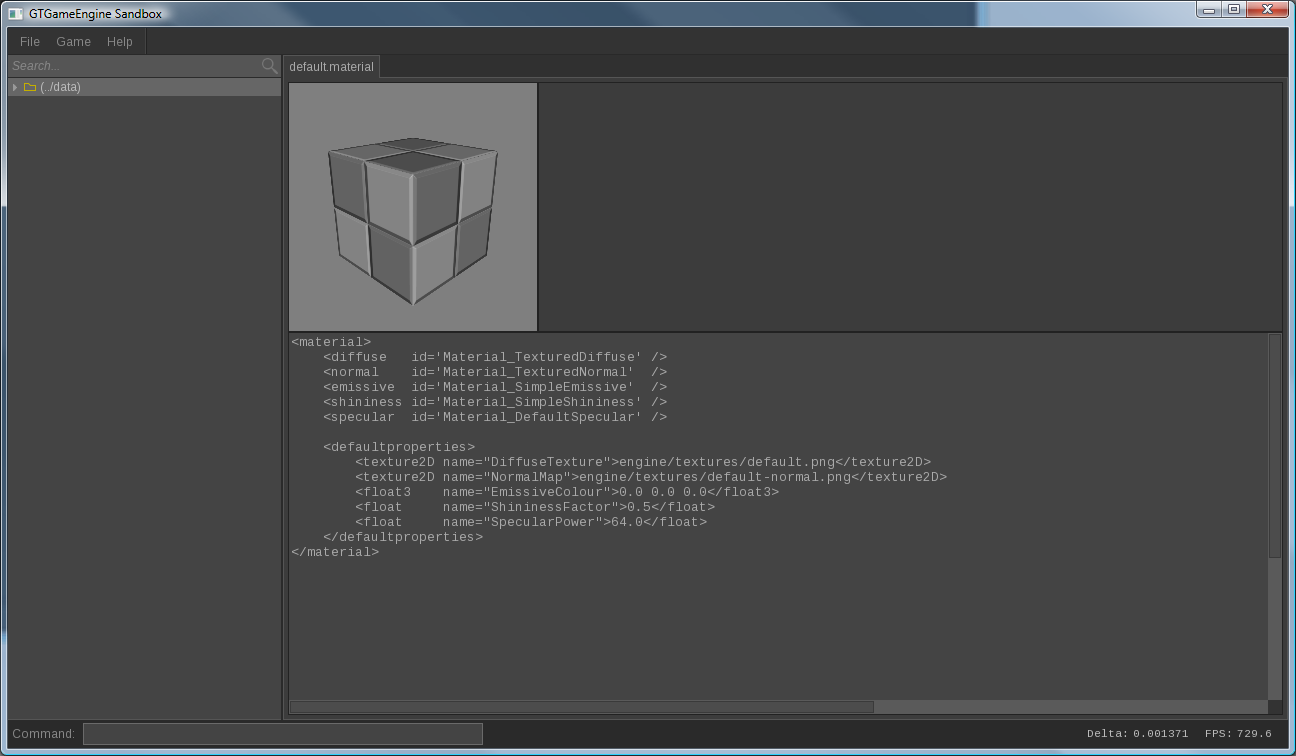
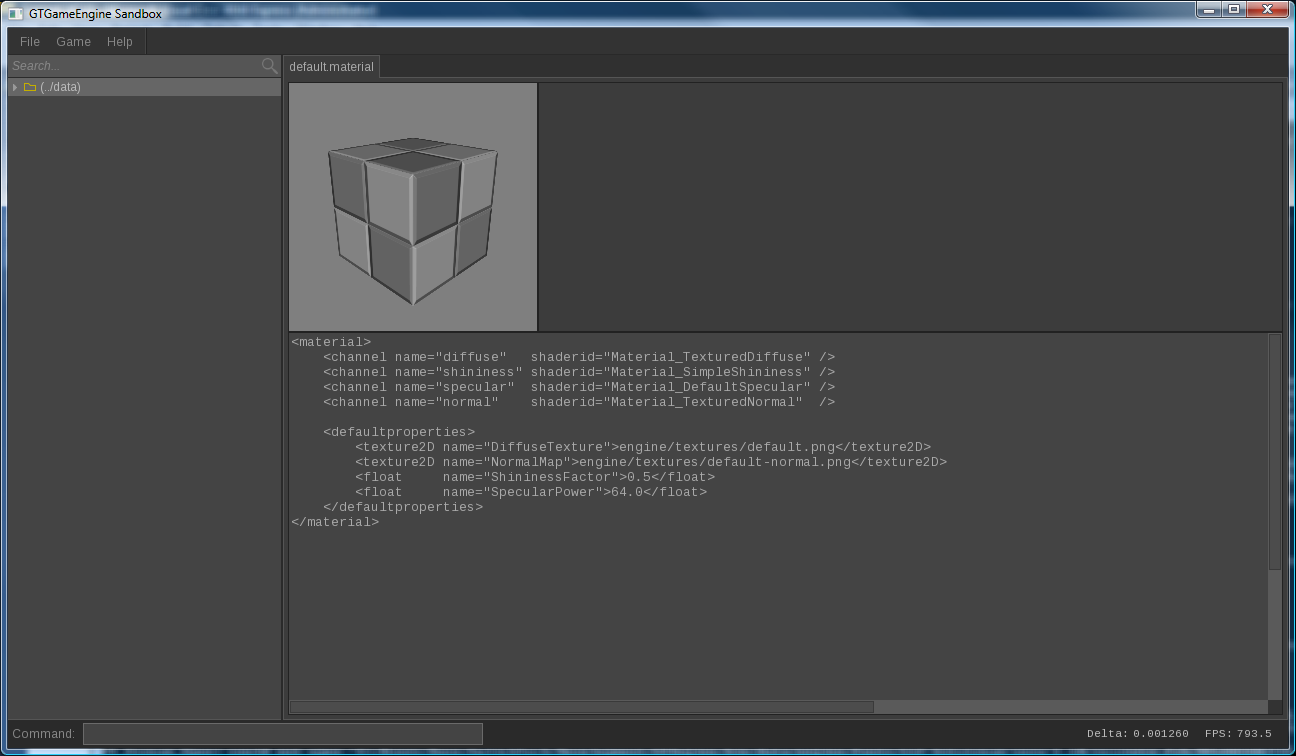
Update the model editor reference to bring in line with recent changes.

diff --git a/documentation/editor/materialeditor.html b/documentation/editor/materialeditor.html
@@ -43,31 +43,31 @@ layout: editor
         but support for this via the editing tools and scripting environment is not very complete right now.
         </p>
         <p>
-        A material has a set of "channels" that define it's appearance. Below is a table of the standard channels of a material.
+        A material has a set of "channels" that define it's appearance. Below is a table of the channels used by the default renderer.
         </p>
         <table class="shortcuts-table">
             <tr>
-                <td><b>Diffuse</b></td><td>The appearance of the material as if lit by a uniform white light. Think of it as the texture.</td>
+                <td><b>diffuse</b></td><td>The appearance of the material as if lit by a uniform white light. Think of it as the texture.</td>
             </tr>
             <tr>
-                <td><b>Emissive</b></td><td>The colours emitted by the material irrespective of lighting. The appearance of the material as if completely unlit.</td>
+                <td><b>emissive</b></td><td>The colours emitted by the material irrespective of lighting. The appearance of the material as if completely unlit.</td>
             </tr>
             <tr>
-                <td><b>Specular</b></td><td>The specular power. Smaller values means a bigger specular highlight.</td>
+                <td><b>specular</b></td><td>The specular power. Smaller values means a bigger specular highlight.</td>
             </tr>
             <tr>
-                <td><b>Shininess</b></td><td>The shininess of the material. The specular contribution will be multiplied by this value.</td>
+                <td><b>shininess</b></td><td>The shininess of the material. The specular contribution will be multiplied by this value.</td>
             </tr>
             <tr>
-                <td><b>Normal</b></td><td>The normals to use when applying normal mapping. Usually this will be defined by a simple normal map image.</td>
+                <td><b>normal</b></td><td>The normals to use when applying normal mapping. Usually this will be defined by a simple normal map image.</td>
             </tr>
             <tr>
-                <td><b>Refraction</b></td><td>The same as <b>Normal</b>, except for refraction.</td>
+                <td><b>refraction</b></td><td>The same as <b>normal</b>, except for refraction.</td>
             </tr>
         </table>
         <p>
-        A possible future feature is to allow games to define their own channels to help support a custom renderer, but this feature is not
-        currently implemented.
+        Renderer's are free to define their own channels. For example, a cartoon renderer might have a "line_colour" channel to define the colour
+        edge lines. The name of the channel is set with the "name" property of the "channel" tag.
         </p>
         <p>
         A channel is defined by a shader function that is usually run on the fragment shader. There are two ways to define the function. The first
@@ -81,32 +81,36 @@ layout: editor
         Below is an example for defining the diffuse channel using the first technique:
         </p>
 <pre>&lt;material&gt;
-    &lt;diffuse id="Material_WhiteDiffuse" /&gt;
+    &lt;channel name="diffuse" shaderid="Material_WhiteDiffuse" /&gt;
 &lt;/material&gt;</pre>
         <p>
         Below is an example for inlining the shader code directly:
         </p>
 <pre>&lt;material&gt;
-    &lt;diffuse&gt;
+    &lt;channel name="diffuse"&gt;
         vec4 Diffuse()
         {
             return vec4(1.0, 1.0, 1.0, 1.0);
         }
-    &lt;/diffuse&gt;
+    &lt;/channel&gt;
 &lt;/material&gt;</pre>
+        <p>
+        The entry point function and return type will depend on the renderer. For the default renderer, it must be named the same as the channel,
+        but with a capitalized first letter.
+        </p>
         <p>
         You can specify variables that can be set externally. For you shader programmers, these are uniform variables. The next example shows how
         you can use one of these variables with a texture.
         </p>
 <pre>&lt;material&gt;
-    &lt;diffuse&gt;
+    &lt;channel name="diffuse"&gt;
         uniform sampler2D DiffuseTexture;
 
         vec4 Diffuse()
         {
             return texture2D(DiffuseTexture, VertexOutput_TexCoord.xy);
         }
-    &lt;/diffuse&gt;
+    &lt;/channel&gt;
 
     &lt;defaultproperties&gt;
         &lt;texture2D name="DiffuseTexture">engine/textures/default.png&lt;/texture2D&gt;
